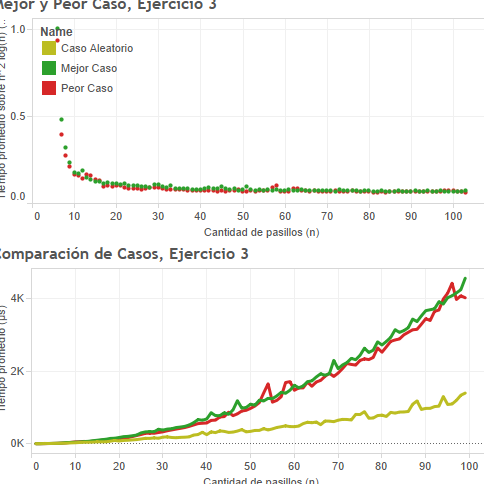
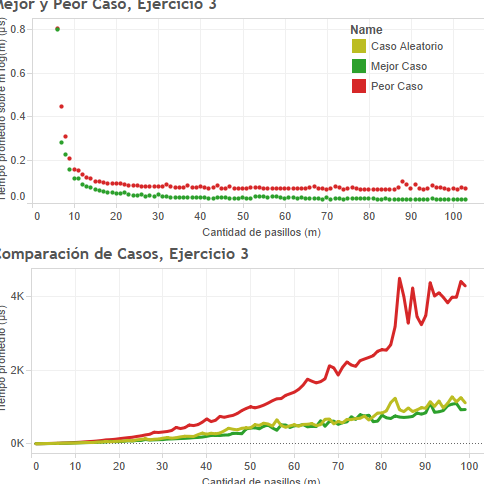
Updates from ShareLaTeX

diff --git a/docs/main.tex b/docs/main.tex
@@ -319,7 +319,7 @@ Cabe destacar, entonces, que estos lemas nos permiten afirmar que si encontramos
 
 Veamos que tras modelar nuestro grafo se obtiene que, independientemente de los portales dados, nuestro pre-procesamiento genera un nodo por cada metro de cada piso del edificio, por lo que tenemos $NL$ nodos y hasta este momento una complejidad de $O(NL)$. Luego veremos que por cada conexión entre portales, agregamos un nodo intermedio entre los dos extremos de la conexión, por lo que ahora tendremos $NL+P$ nodos, con $P$ la cantidad de portales, formando así una complejidad de pre-procesamiento de $O(NL+P)$. Notemos que nuestro algoritmo termina apenas se evalúa un nodo que tenga como vecino al último metro del último piso -de ahora en más, nodo 'fin'-, habiendo dicho esto, centraremos nuestro análisis en los portales dados porque es lo único que logrará variar la cantidad de iteraciones que tomará para llegar a dicho nodo. \\
 
-Ahora bien, si quisiéramos obtener el mejor caso, sería minimizando la cantidad de portales porque habría menos nodos a considerar a la hora de encolar, chequear sus vecinos e iterar a través de ellos, además de un preprocesado menos costoso. Dado que es condición necesaria del problema que exista un camino posible, necesitamos que exista al menos un camino del piso 0 al piso n, y para minimizar dicho camino de portales podemos considerar un portal único que vaya desde el metro 0 del piso 0 al nodo 'fin' (metro $L$ del nodo $N$). En este caso (Figura \ref{grf:ex2-best}), en la primera iteración nuestro algoritmo encolará a los dos vecinos del metro 0 (el metro 1 y el portal intermediario que llevará al nodo 'fin'), luego al desencolar el portal intermediario iteraremos por su único vecino y dado que es el nodo 'fin' terminaremos la ejecución del algoritmo. Notemos que la resolución del camino mínimo propiamente dicha tomó tiempo constante en este caso, dado que no depende del largo de los pasillos $L$, ni de la cantidad de pisos $N$; sin embargo como contamos con el preprocesamiento antes mencionado, la complejidad se vuelve $O(NL+1)$, que es $O(NL)$. \\
+Ahora bien, si quisiéramos obtener el mejor caso, sería minimizando la cantidad de portales porque habría menos nodos a considerar a la hora de encolar, chequear sus vecinos e iterar a través de ellos, además de un preprocesado menos costoso. Dado que es condición necesaria del problema que exista un camino posible, necesitamos que exista al menos un camino del piso 0 al piso n, y para minimizar dicho camino de portales podemos considerar un portal único que vaya desde el metro 0 del piso 0 al nodo 'fin' (metro $L$ del nodo $N$). En este caso (Figura \ref{grf:ex2-best}), en la primera iteración nuestro algoritmo encolará a los dos vecinos del metro 0 (el metro 1 y el portal intermediario que llevará al nodo 'fin'), luego al desencolar el portal intermediario iteraremos por su único vecino y dado que es el nodo 'fin' terminaremos la ejecución del algoritmo. Notemos que la resolución del camino mínimo propiamente dicha tomó tiempo constante en este caso, dado que no depende del largo de los pasillos $L$, ni de la cantidad de pisos $N$; sin embargo como contamos con el preprocesamiento antes mencionado, la complejidad se vuelve $O(NL+1)$, que es $O(NL)$.\\
 
 \pagebreak
     
@@ -337,7 +337,7 @@ Ahora bien, si quisiéramos obtener el mejor caso, sería minimizando la cantida
     \caption{Ejemplo de una corrida de mejor caso para el ejercicio 2. El arreglo de arriba representa el arreglo de distances del algoritmo, y el de abajo la cola utilizada. \label{grf:ex2-best}}
 \end{figure}
 
-Por otro lado, veamos que en peor caso (figuras \ref{grf:ex2-worst-1} y \ref{grf:ex2-worst-2}), la mayor cantidad de iteraciones se da cuando tengamos que pasar por todos los nodos para encontrar el camino mínimo que llega al nodo 'fin' y además cada nodo tenga la mayor cantidad de vecinos (para así maximizar la cantidad de iteraciones del ciclo interno); la única excepción a esto es el anteúltimo piso, ya que aquí todos los nodos tendrán que estar conectados con el metro 0 del último piso -dado que de lo contrario, estarían más cerca de llegar al nodo 'fin'.\\
+Por otro lado, veamos que en peor caso (figuras \ref{grf:ex2-worst-1} y \ref{grf:ex2-worst-2}), la mayor cantidad de iteraciones se da cuando tengamos que pasar por todos los nodos para encontrar el camino mínimo que llega al nodo 'fin' y además cada nodo tenga la mayor cantidad de vecinos (para así maximizar la cantidad de iteraciones del ciclo interno); la única excepción a esto es el ante-último piso, ya que aquí todos los nodos tendrán que estar conectados con el metro 0 del último piso -dado que de lo contrario, estarían más cerca de llegar al nodo 'fin'.\\
 
 Notemos que al momento de buscar maximizar la cantidad de vecinos de un nodo $n$ en el piso $i$, es necesario que $n$ esté conectado con todos los nodos del piso $i+1$ pero con ninguno superior a dicho piso, porque si lo estuviera, el algoritmo estaría aproximándose más rápidamente al portal que comunica con el último piso, y terminaría antes. De esta forma se tiene que el último piso tendrá un solo portal (en el metro 0), el anteúltimo piso tendrá $L$ portales (que comunican con el metro 0 del último piso), y todos los anteriores tendrán $L^2$ portales (cada metro del $i$-ésimo piso con todos los metros del $i+1$-ésimo piso). Con lo cuál la cantidad de portales será: $P = 1+L+(N-2)L^2$. \\
 
@@ -377,10 +377,13 @@ Notemos que al momento de buscar maximizar la cantidad de vecinos de un nodo $n$
 \end{figure}
 
 Para la generación de los casos de prueba, decidimos tomar $L = N$ para simplificar la comprensión de los gráficos (de cualquier forma, mirar los gráficos por separado da lo esperado, pero es más complicado de expresar los resultados).
-Además, para probar de forma justa el mejor caso junto al peor caso decidimos que los casos de prueba tengan la misma cantidad de portales, es decir, el peor caso va a ser como fue descripto anteriormente (cada nodo se conecta con todos los del piso inferior y superior a través de portales, excepto el nodo 'fin'), y el grafo para el mejor caso va a ser igual pero simplemente conectando a través de un portal la posición 0 del piso 0 con el nodo 'fin'. De esta forma fijamos todas las las variables contempladas en la complejidad del algoritmo, y logramos comparar el desempeño del algoritmo equitativamente.
-Observemos en la figura \ref{grf:ex2} que tanto el mejor caso como el peor caso tienden a constantes, implicando que el crecimiento asintótico efectivamente es como esperábamos. Cabe destacar que, en particular para el peor caso, la función $NL + P = NL + 1+L+(N-2)L^2 \in O(L^3)$, pues $N = L$ implica que el último término es $O(L^3)$, y el primero es $O(L^2)$.
 
-Para el caso aleatorio, lo que se decidió hacer es generar un árbol que conecte cada piso con el siguiente hasta N para asegurar que exista solución. Luego se generan todas los pares de pisos posibles, se elige una cantidad aleatoria de estos pares, entre $\frac{(L-1)*(L-2)}{2}$ y $\frac{(L-1)*(L)}{2}$, y se generan nuevos portales usando este par de pisos y 2 posiciones aleatorias dentro de los pisos. Esto se hizo para que el grafo sea más denso y poder diferenciarse del mejor caso, y a su vez para que no sea tan denso como en el peor caso. Sin embargo, observemos que el tiempo de corrida de los casos aleatorios es muy cercana al mejor caso, indicándonos que en general la longitud del camino mínimo que conecta al nodo inicial con el final debía ser mas bien chica.
+Además, para probar de forma justa el mejor caso junto al peor caso decidimos que los casos de prueba tengan la misma cantidad de portales, es decir, el peor caso va a ser como fue descripto anteriormente (cada nodo se conecta con todos los del piso inferior y superior a través de portales, excepto el nodo 'fin'), y el grafo para el mejor caso va a ser igual pero simplemente conectando a través de un portal la posición 0 del piso 0 con el nodo 'fin'. De esta forma fijamos todas las las variables contempladas en la complejidad del algoritmo, y logramos comparar el desempeño del algoritmo equitativamente.
+
+Para el caso aleatorio, lo que se decidió hacer es generar un árbol que conecte cada piso con el siguiente hasta N para asegurar que exista solución. Luego se generan pares de pisos y posiciones aleatorios, sin repetir ni violar el enunciado, hasta alcanzar la cantidad de portales generados en el mejor y peor caso, esto lo hacemos para poder comparar equitativamente los tres casos, fijando N, L y P, lograremos comparar el desempeño del algoritmo exclusivamente.
+Observemos que el tiempo de corrida de los casos aleatorios es muy cercana al mejor caso, indicándonos que nuestra elección de mejor y peor caso fue acertada, y es lógico pensar que el caso aleatorio se acerca mucho mas al mejor caso que al peor, ya que eligiendo aleatoriamente conexiones es altamente improbable generar un grafo que cumpla las condiciones del peor caso (que los nodos de un piso conecten como máximo con el siguiente piso) y de hecho, con que solo un nodo logre ir a un piso mucho mas alto a través de un portal, recortara la cantidad de iteraciones de forma significativa.
+
+En la figura \ref{grf:ex2} que tanto el mejor caso como el peor caso tienden a constantes, implicando que el crecimiento asintótico efectivamente es como esperábamos.
 
 \begin{figure}
 \centering
@@ -464,9 +467,9 @@ Observemos, entonces, que transformar pesos y correr Kruskal es una manera corre
 
 \pagebreak
 
-Observemos que la transformación de los pesos de las aristas siempre toma exactamente $\Theta(m)$, ya que no nos queda otra más que recorrer todas las aristas para cambiar los pesos. Observemos, además, que en el algoritmo de Kruskal el mejor caso es en el que sólo tenemos que hacer heapify y tomar exactamente $n - 1$ aristas para completar el grafo sin encontrarnos ciclos, permitiéndonos entrar siempre dentro del if. Queda claro que esto sólo sucedería si el grafo fuese acíclico y tuviese exactamente $n - 1$ aristas, es decir, fuese un árbol. En este caso, tendríamos que $m \in O(n)$, y por lo tanto la complejidad temporal sería de $O(n log(n))$. \\
+Observemos que la transformación de los pesos de las aristas siempre toma exactamente $\Theta(m)$, ya que no nos queda otra más que recorrer todas las aristas para cambiar los pesos. Observemos, además, que en el algoritmo de Kruskal el mejor caso es en el que sólo tenemos que hacer heapify y tomar exactamente $n - 1$ aristas para completar el grafo sin encontrarnos ciclos, permitiéndonos entrar siempre dentro del if. Queda claro que esto sólo sucedería si el grafo fuese acíclico y tuviese exactamente $n - 1$ aristas, es decir, fuese un árbol. En este caso, tendríamos que $m \in O(n)$, y por lo tanto la complejidad temporal sería de $O(n log(n))$. Alternativamente, también podríamos pensar en un árbol generado como mencionamos anteriormente, pero agregarle aristas de peso menor a las que ya teníamos hasta completar el grafo: en este caso, la elección de aristas se verá forzada a concluir en exactamente $n - 1$ pasos, ya que las primeras $n - 1$ aristas del heap lograrán formar un árbol de peso máximo. \\
 
-Por otro lado, caracterizar el peor caso es más difícil: si bien es claro que el grafo debería ser denso (teniendo entonces que ya el pre-procesamiento tomaría $\Theta(n^2)$), lo ideal sería también forzar al algoritmo de Kruskal a tener que hacer pop para todas las aristas antes de poder terminar. Observemos que el algoritmo va a hacer pop hasta que haya logrado completar un árbol, por lo que la condición fundamental para que esto suceda es que las aristas que le permitan completar un árbol sean las últimas en ser procesadas. Cabe destacar entonces que el pre-procesamiento lo que hace es dar vuelta el orden de recorrido de las aristas, por lo que las aristas que fuesen las primeras al ordenarlas en el grafo original van a ser las últimas en el grafo procesado; implicando que las aristas que para completar el árbol deberían ser las de menor peso del grafo. Finalmente, para generar un grafo de $n$ nodos con estas características lo único que debemos hacer es tomar $K_n$, asignar los pesos de cualquier forma (pero siempre mayores o iguales a un número $M > 1$), y luego tomar algún nodo arbitrario del grafo, y hacer que todas sus aristas tengan peso $M - 1$. Nótese, sin embargo, que jamás será posible popear exactamente todas las aristas, ya que al llegar a la primera de las que conectan al nodo, simplemente tomaremos a esa (y no va a haber una asignación de pesos particular que logre que esto cambie). En este caso, tendríamos que $m \in O(n^2)$, por lo que la complejidad temporal pasaría a ser $O(n^2 log(n))$.
+Por otro lado, caracterizar el peor caso es más difícil: si bien es claro que el grafo debería ser denso (teniendo entonces que ya el pre-procesamiento tomaría $\Theta(n^2)$), lo ideal sería también forzar al algoritmo de Kruskal a tener que hacer pop para todas las aristas antes de poder terminar. Observemos que el algoritmo va a hacer pop hasta que haya logrado completar un árbol, por lo que la condición fundamental para que esto suceda es que las aristas que le permitan completar un árbol sean las últimas en ser procesadas. Cabe destacar entonces que el pre-procesamiento lo que hace es dar vuelta el orden de recorrido de las aristas, por lo que las aristas que fuesen las primeras al ordenarlas en el grafo original van a ser las últimas en el grafo procesado; implicando que las aristas que para completar el árbol deberían ser las de menor peso del grafo. Finalmente, para generar un grafo de $n$ nodos con estas características lo único que debemos hacer es tomar $K_n$, asignar los pesos de cualquier forma (pero siempre mayores o iguales a un número $K > 1$), y luego tomar algún nodo arbitrario del grafo, y hacer que todas sus aristas tengan peso $K - 1$. Nótese, sin embargo, que jamás será posible popear exactamente todas las aristas, ya que al llegar a la primera de las que conectan al nodo, simplemente tomaremos a esa (y no va a haber una asignación de pesos particular que logre que esto cambie). En este caso, tendríamos que $m \in O(n^2)$, por lo que la complejidad temporal pasaría a ser $O(n^2 log(n))$.
 
 \begin{figure}
     \centering
@@ -486,9 +489,7 @@ Por otro lado, caracterizar el peor caso es más difícil: si bien es claro que 
 
 Como puede verse en la figura \ref{grf:ex3}, tenemos que ambos casos parecerían efectivamente estar en la complejidad deseada. Al igual que en los otros ejercicios, tenemos una variación muy amplia en la medición de tiempos al principio, pero terminan convergiendo a una constante, lo que demuestra que efectivamente la complejidad es como anunciamos anteriormente.
 
-Para generar el mejor caso para este ejercicio, y que el $m$ sea el mismo para cada prueba que el $m$ en el peor caso, lo que hacemos es calcular a cada paso el $m$ correspondiente al peor caso, es decir, a un $K_n$ para un determinado $n$. Sin embargo, este $n$ no es la cantidad de nodos del grafo para el mejor caso, ya que lo que estamos midiendo es la complejidad sobre la cantidad de aristas. Como el mejor caso para Kruskal es que el grafo de entrada ya sea un árbol, lo que hacemos es generar un árbol unario de $m$ aristas, es decir, una cadena de nodos. Esto significa que excepto el primer y último nodo, que tienen grado 1, todos los demás nodos tienen grado 2, por lo que la cantidad de nodos está dada por:
-
-$ 2M = 2 + \sum\limits_{i=0}^{N-2}{2} = 2 + (N-2) * 2 \rightarrow M = N - 2$
+Para generar el mejor caso para este ejercicio, y que el $m$ sea el mismo para cada prueba que el $m$ en el peor caso, lo que hacemos es calcular a cada paso el $m$ correspondiente al peor caso, es decir, a un $K_n$ para un determinado $n$. Luego, generamos un árbol binario balanceado de $n$ nodos, donde cada arista tiene peso 2. Una vez hecho esto, se le agregan al árbol aristas aleatorias con peso 1 hasta que queda un grafo completo. De esta manera, cuando kruskal ordene las aristas, y saque las primeras $n-1$, ya va a tener el árbol armado y puede terminar, por lo que no hace falta que saque las $(n-1)*(n-2)/2$ aristas restantes.
 
 Para generar los casos aleatorios para este ejercicio, como M en el peor caso es igual a $\frac{N*(N-1)}{2}$ ya que el peor caso es un $K_n$, lo que decidimos hacer es para cada N, generar
 $K_n+1$, y elegir aleatoriamente $M+1$ aristas, siendo $M = \frac{N*(N-1)}{2}$. De esta manera, nos aseguramos que el grafo generado sea conexo, ya que si un grafo tiene $ M > \frac{(N-1)*(N-2)}{2}$ aristas, el mismo es conexo. Esto se debe a que $\frac{(N-1)*(N-2)}{2}$ es la cantidad de aristas de $K_n-1$, por lo que si agregamos un nodo más, y una arista más, por teorema del palomar, esa arista debe conectar a $K_n-1$ con el nuevo nodo, ya que $K_n-1$ es completo. La elección aleatoria de aristas da por resultado un grafo aleatorio, con la misma cantidad de aristas que el peor caso, ya que $O(M+1) = O(M)$.
